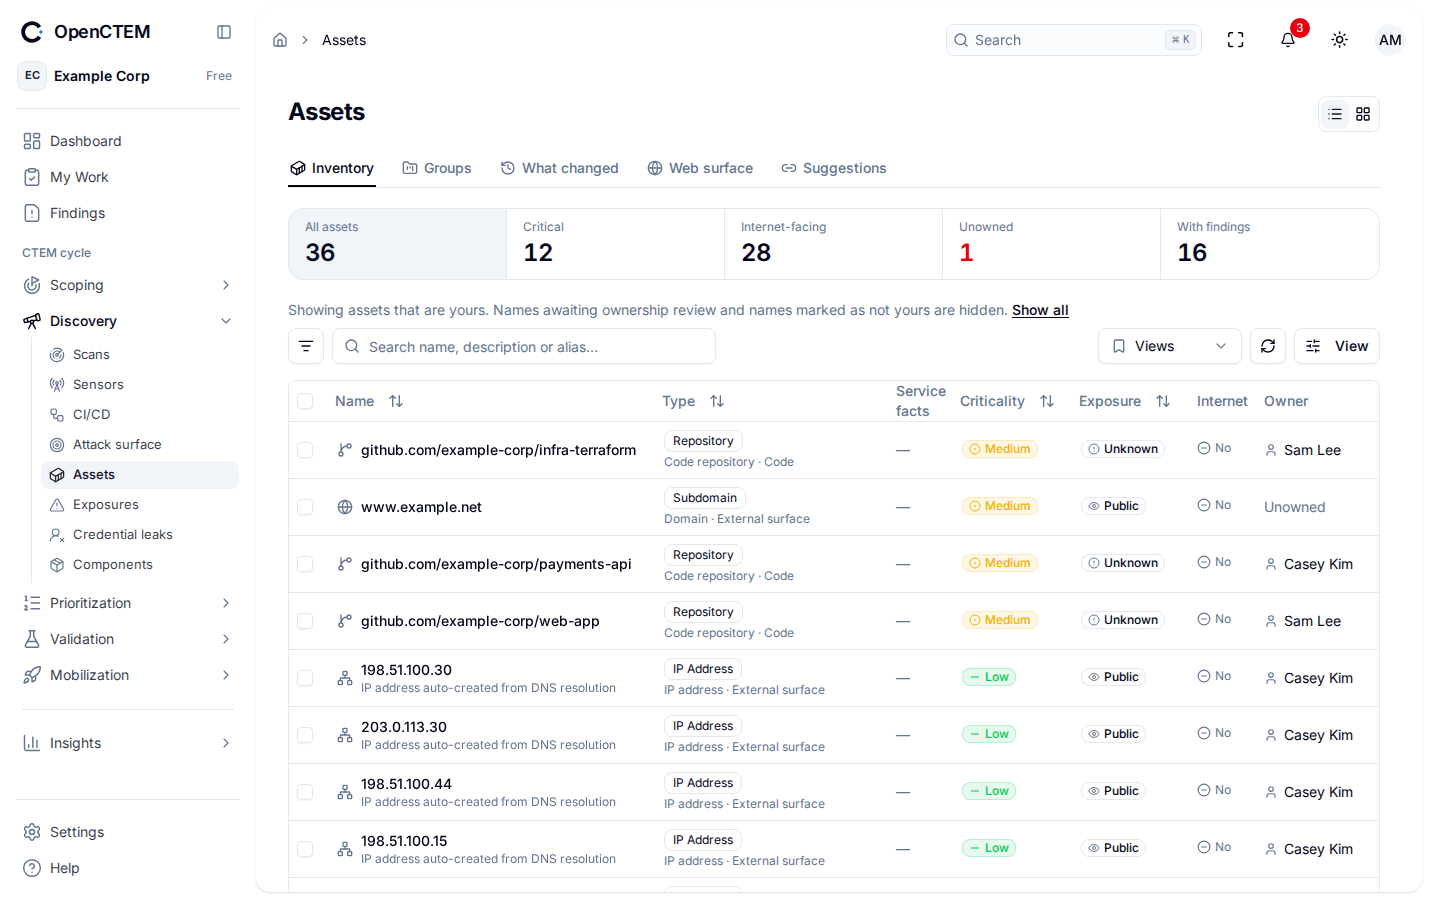
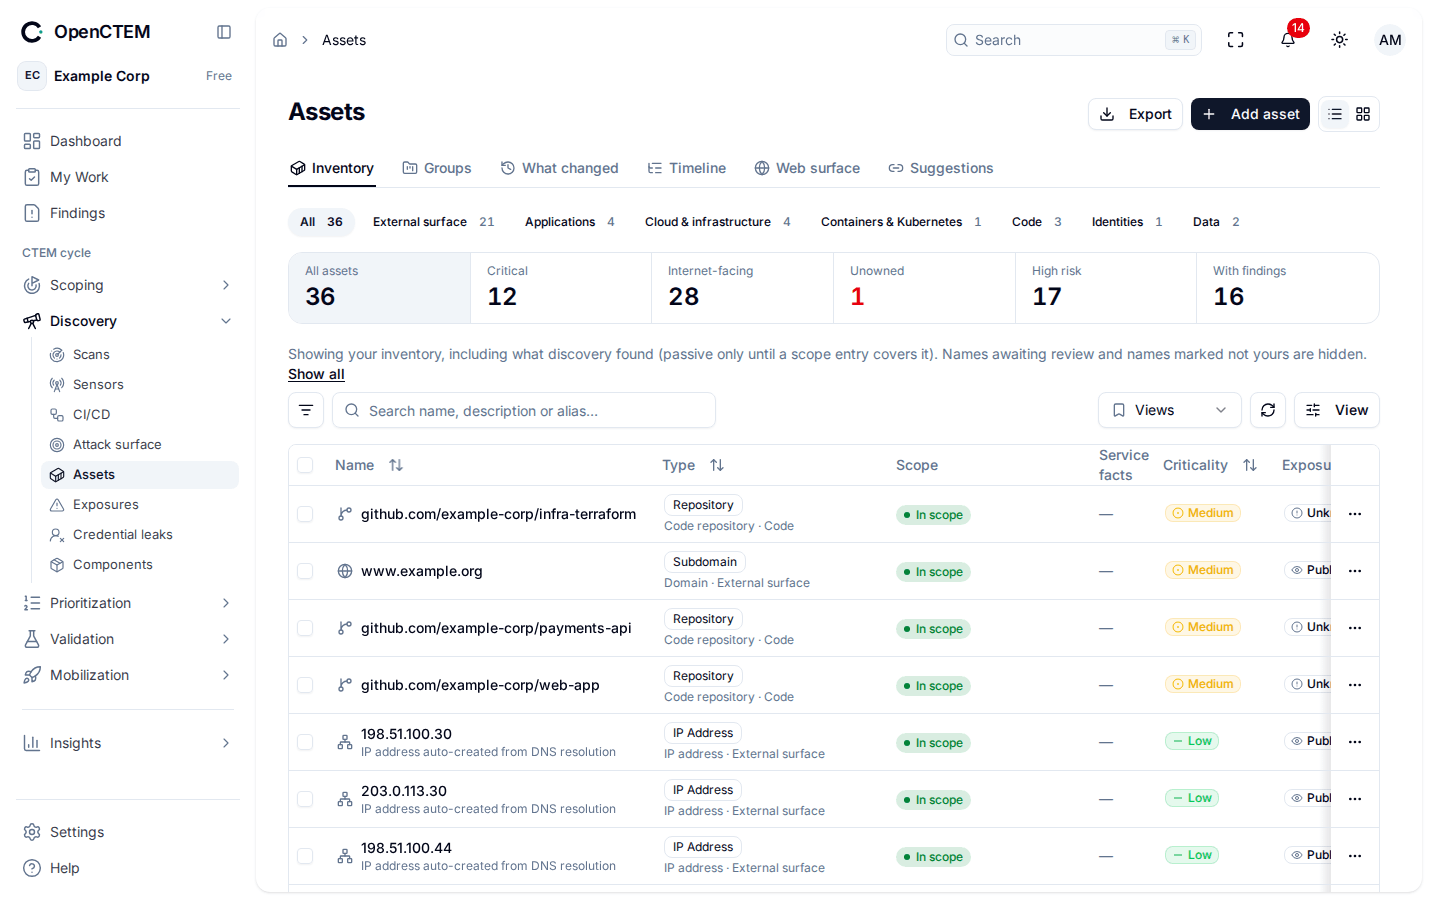
docs: recapture screenshots for v0.9.6
Recaptured on a scratch stack built from develop with the demo seed
(Example Corp, example.com names):

- user-guide/findings-list: Source and Created hidden by default, the
  Location column shows the asset and the place on it.
- user-guide/assets-inventory: type chips with counts, the High risk card,
  the Scope column.
- user-guide/asset-detail: the breadcrumb names the asset.
- scanning/scan-run-completed: the run map with outputs per step.
- scanning/ci-trust: CI trust now lives on Discovery, CI/CD, Trust and
  gate (the old settings page is gone).
- scanning/ci/ci-wizard-3-snippet: the snippet pins ci v0.3.0, without
  the security-events permission.

user-guide/assets-domains.png is removed: no page shows it any more.

capture-screenshots.ts drops the removed /assets/domains route, opens CI
trust on /ci-cd, captures the wizard step, blurs the clicked tab and
clips dialogs as laid out. The demo seed names a tool for host discovery
and records step outputs, so the run map shows what each step produced.

diff --git a/scripts/capture-screenshots.ts b/scripts/capture-screenshots.ts
@@ -119,11 +119,12 @@ interface Shot {
   dark?: boolean
   as?: 'alex' | 'admin' | 'anon'
   height?: number
+  width?: number
 }
 
 async function shoot(ctx: BrowserContext, shot: Shot) {
   const page = await ctx.newPage()
-  if (shot.height) await page.setViewportSize({ width: 1440, height: shot.height })
+  if (shot.height || shot.width) await page.setViewportSize({ width: shot.width ?? 1440, height: shot.height ?? 900 })
   try {
     if (shot.route) {
       await page.goto(WEB + shot.route)
@@ -138,7 +139,14 @@ async function shoot(ctx: BrowserContext, shot: Shot) {
     let buf: Buffer
     if (shot.crop) {
       const loc = typeof shot.crop === 'string' ? page.locator(shot.crop).first() : shot.crop(page)
-      buf = await loc.screenshot({ animations: 'disabled' })
+      // An element inside the viewport (a dialog) is clipped from the page as
+      // it is laid out now; an element screenshot would scroll it first.
+      const box = await loc.boundingBox()
+      const vp = page.viewportSize()
+      buf =
+        box && vp && box.y >= 0 && box.y + box.height <= vp.height
+          ? await page.screenshot({ clip: box, animations: 'disabled' })
+          : await loc.screenshot({ animations: 'disabled' })
     } else {
       buf = await page.screenshot({ fullPage: shot.fullPage ?? false, clip: shot.clip, animations: 'disabled' })
     }
@@ -259,6 +267,8 @@ async function stopPairing() {
 
 const clickTab = (name: RegExp) => async (page: Page) => {
   await page.getByRole('tab', { name }).first().click()
+  // No focus ring on the clicked tab in the picture.
+  await page.evaluate(() => (document.activeElement as HTMLElement | null)?.blur())
 }
 
 // ---------------------------------------------------------------------------
@@ -279,7 +289,6 @@ const shots: Shot[] = [
 
   // Discovery
   { section: 'user-guide', name: 'assets-inventory', route: '/assets' },
-  { section: 'user-guide', name: 'assets-domains', route: '/assets/domains' },
   { section: 'user-guide', name: 'asset-detail', route: `/assets/${assetId('app.example.com')}` },
   { section: 'user-guide', name: 'asset-groups', route: '/assets/groups' },
   { section: 'user-guide', name: 'components', route: '/components' },
@@ -379,7 +388,32 @@ const shots: Shot[] = [
     },
   },
   { section: 'scanning', name: 'ci-pipelines', route: '/ci-cd' },
-  { section: 'scanning', name: 'ci-trust', route: '/settings/scanning/ci' },
+  { section: 'scanning', name: 'ci-trust', route: '/ci-cd', open: clickTab(/trust and gate/i) },
+  // CI/CD quickstart (scanning/ci): step 3 of the Connect a pipeline wizard for
+  // a new organization (example-org; its trust from an earlier capture is removed
+  // first, so the wizard creates one instead of reusing it).
+  {
+    section: 'scanning/ci',
+    name: 'ci-wizard-3-snippet',
+    route: '/ci-cd',
+    width: 1280,
+    open: async (page) => {
+      for (const c of rows(await get('/api/v1/ci/trust-configs')))
+        if (JSON.stringify(c.owners ?? c).includes('example-org'))
+          await call('DELETE', `/api/v1/ci/trust-configs/${c.id}`, undefined, alex.accessToken).catch((e) => log('skip delete trust', (e as Error).message))
+      await clickTab(/trust and gate/i)(page)
+      await page.getByRole('button', { name: /connect a pipeline/i }).first().click()
+      const dialog = page.getByRole('dialog')
+      await dialog.getByRole('radio', { name: /github/i }).first().click()
+      await dialog.getByRole('button', { name: /^next$/i }).click()
+      await dialog.locator('#ci-setup-owners').fill('example-org')
+      await dialog.getByRole('button', { name: /create trust/i }).click()
+      await dialog.getByRole('button', { name: /wait for the first run/i }).waitFor()
+      // The dialog surface is slightly translucent: hide the page behind it.
+      await page.addStyleTag({ content: 'main { visibility: hidden !important; }' })
+    },
+    crop: (page) => page.getByRole('dialog'),
+  },
   { section: 'scanning', name: 'tools', route: '/settings/scanning/tools' },
 
   // Sensors
